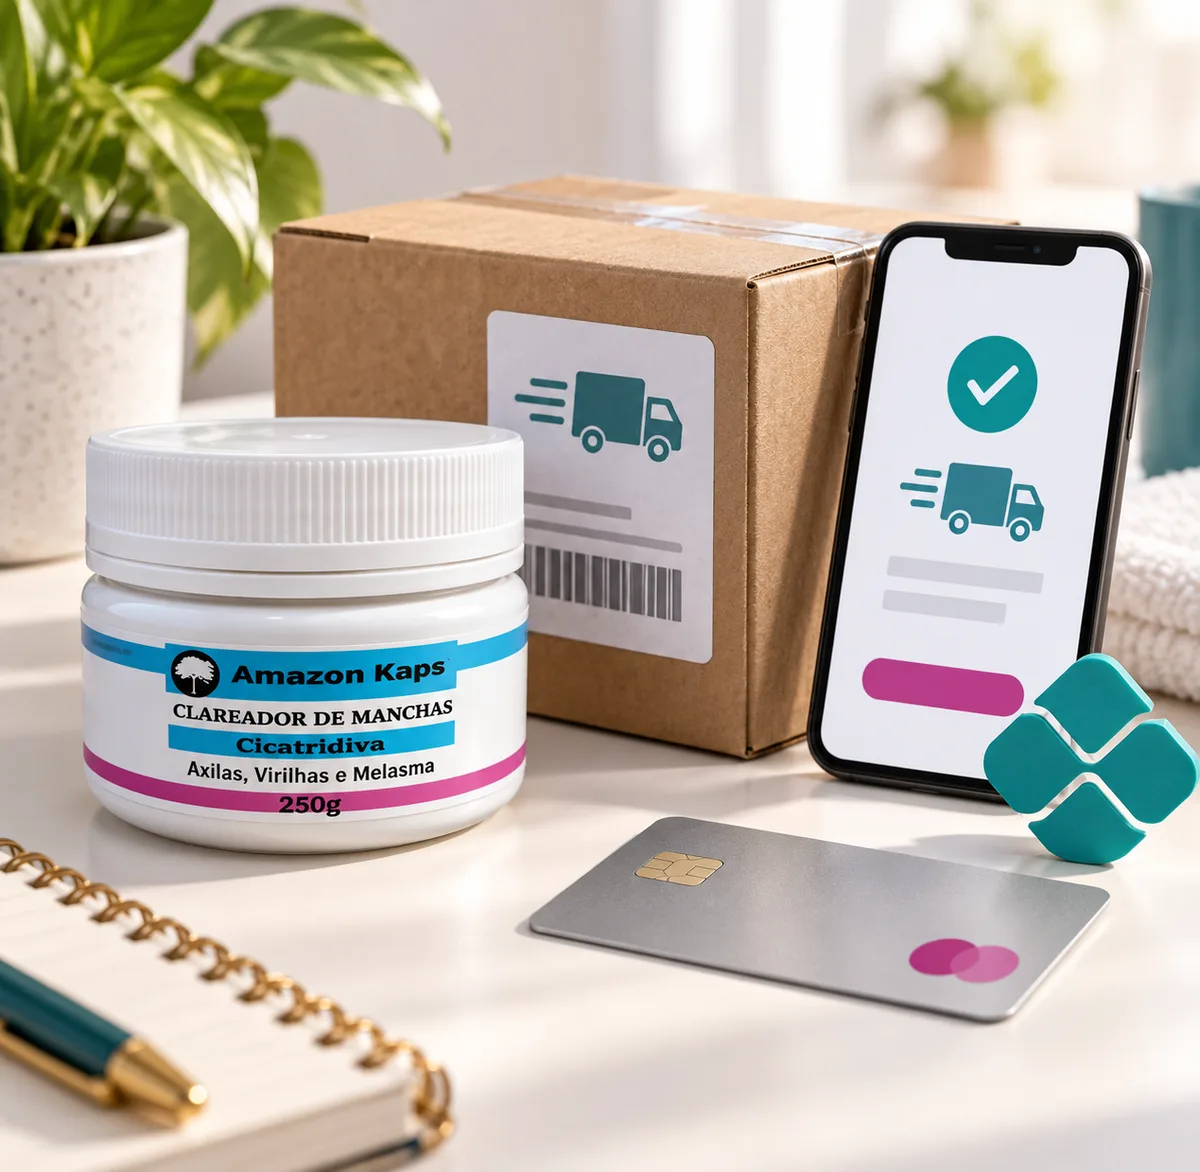
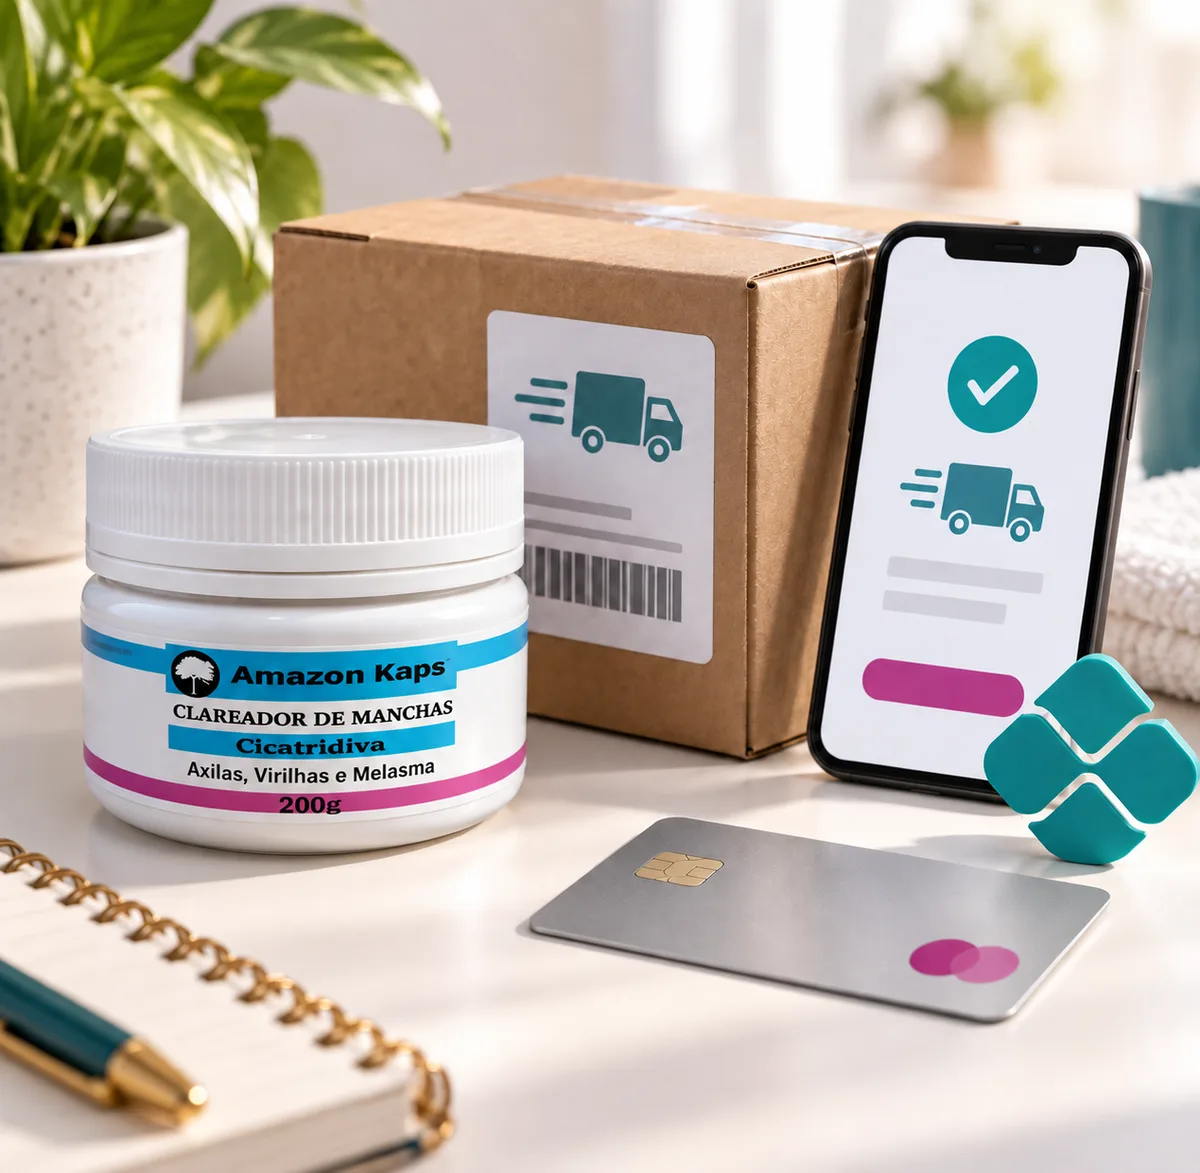
Swap the delivery/payment photo for the second variant
Replace entrega-e-pagamento.webp with "Entrega e pagamento (2).png",
used in the TrustBlock section on both pages. Same dimensions
(height off by 1px, adjusted) and alt text.

Changed region(s): [[0.1542, 0.5529, 0.37, 0.7065], [0.6167, 0.215, 0.7092, 0.2457]]

diff --git a/src/config/images.ts b/src/config/images.ts
@@ -29,7 +29,7 @@ export const ativosImage: ProductImage = {
 export const entregaImage: ProductImage = {
   src: "/images/amazole/entrega-e-pagamento.webp",
   width: 1200,
-  height: 1172,
+  height: 1173,
   alt: "Entrega e pagamento na entrega do Clareador de Manchas",
 };
 
